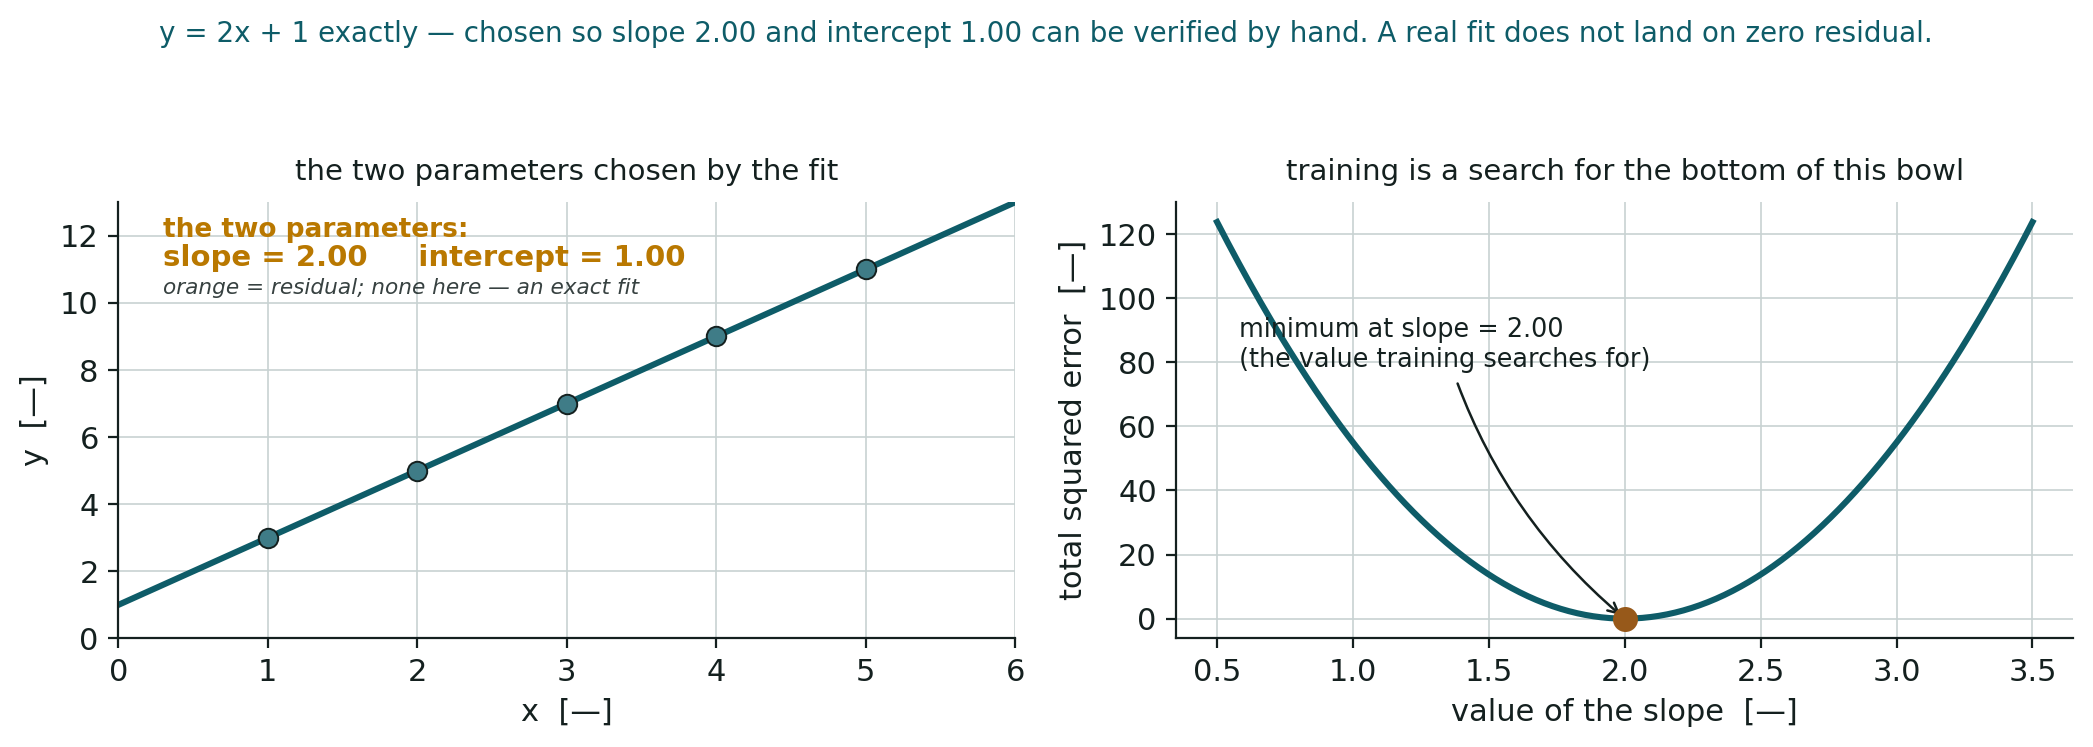
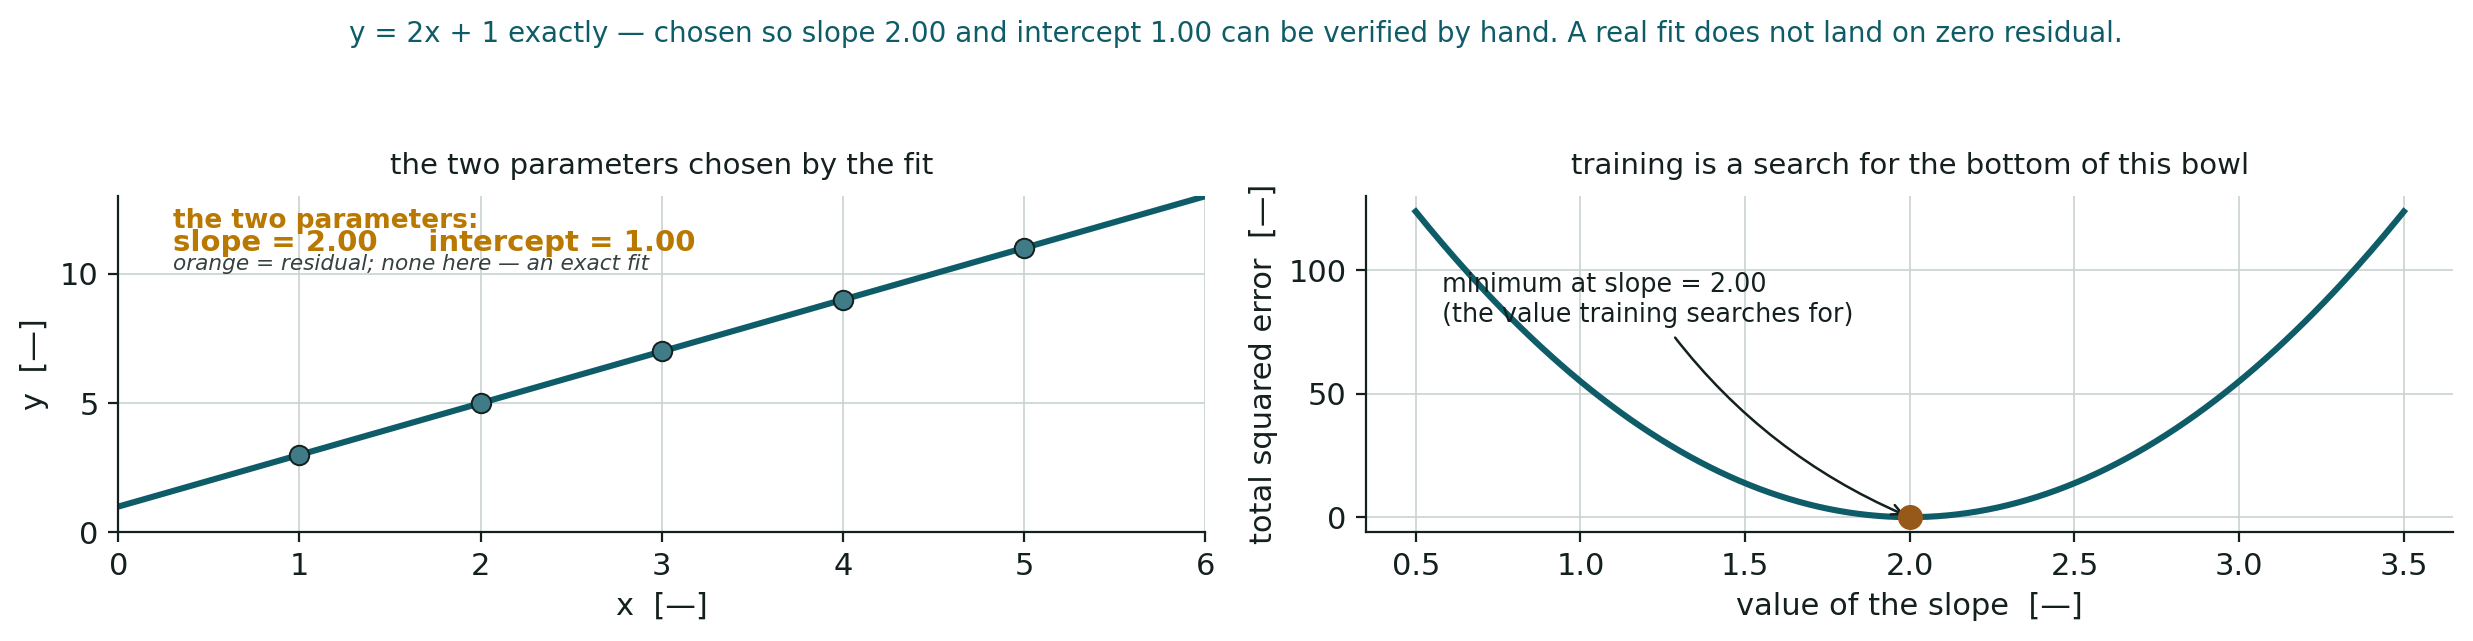
Re-proportion 23 figures to fill the slide's 144mm width
The slide template gives figures 144 mm of width and a fixed height in mm.
All 23 figures were height-limited: they hit the height cap before the
width cap, so they rendered at 61-92% of available width (avg ~75%),
wasting a quarter of the slide and rendering labels smaller than needed
on the projected screen.

Fix: reduce figsize height (and, where that would crowd fixed-data-coordinate
annotations, widen figsize instead) so the achieved w:h ratio after
bbox_inches="tight" lands within +/-0.15 of a per-figure target computed
from the slide's actual box. No content, wording, colour, or number changed;
all existing assertions (softmax table reproduction, best-of-eleven mean
arithmetic) still pass.

Two figures needed width added rather than height reduced, because a
straight height cut crowded fixed-position annotation text:
- 01-fitting: left-panel annotation text collided with itself once the
  y-axis was compressed (10.6x3.5 -> 12.5x3.0 instead of 10.6x2.59)
- 01-token-cost and 02-best-of-eleven: bottom caption collided with the
  x-axis label / rotated tick labels (10.6x3.75 -> 12.2x3.42;
  13.4x4.4 -> 15.6x3.70)

All 23 achieved ratios verified within tolerance and visually inspected;
none regressed relative to the unmodified figure. 01-kv-growth,
05-position-schematic, and 01-chat-artefact are untouched (not used at
these sizes), as is 01-softmax-T (not in scope).

diff --git a/assets/figures/gen-figures.py b/assets/figures/gen-figures.py
@@ -75,7 +75,7 @@ def fig_temperature():
     logits = np.log(p1)                            # exact inverse of softmax at T = 1
     temps = [0.2, 0.7, 1.0, 1.8]
 
-    fig, axes = plt.subplots(1, 4, figsize=(11.6, 3.55), sharey=True)
+    fig, axes = plt.subplots(1, 4, figsize=(11.6, 2.27), sharey=True)
     x = np.arange(len(labels))
     for ax, T in zip(axes, temps):
         p = softmax(logits, T)
@@ -200,7 +200,7 @@ def fig_scores():
     probs = recovered[:-1]
     shown_total = probs.sum()
 
-    fig, (a1, a2) = plt.subplots(1, 2, figsize=(11.0, 3.55))
+    fig, (a1, a2) = plt.subplots(1, 2, figsize=(11.0, 2.71))
     x = np.arange(len(labels))
     a1.bar(x, logits, color=LOGIT, edgecolor=INK, linewidth=.6)
     a1.set_title("1. logits — raw scores out of the network", fontsize=10.5, pad=8)
@@ -234,7 +234,7 @@ def fig_token_cost():
     counts = [1, 1, 2, 2, 3, 3, 4]                      # schematic, not measured
     letters = [len(t) for t in terms]
     labels = [f"{t}   ({n} letters)" for t, n in zip(terms, letters)]
-    fig, ax = plt.subplots(figsize=(10.6, 3.75))
+    fig, ax = plt.subplots(figsize=(12.2, 3.42))
     cols = [WARN if t in ("rebar", "international") else ACCENT[0] for t in terms]
     ax.barh(range(len(terms)), counts, color=cols, edgecolor=INK, linewidth=.6)
     ax.set_yticks(range(len(terms))); ax.set_yticklabels(labels, fontsize=10)
@@ -347,7 +347,7 @@ def fig_what_is_ai():
          "", ACCENT[0]),
     ]
     tops = [5.35, 4.20, 3.05, 1.90]
-    fig, ax = plt.subplots(figsize=(12.6, 4.55))
+    fig, ax = plt.subplots(figsize=(12.6, 3.74))
     ax.set_xlim(0, 10); ax.set_ylim(0, 5.9); _blank(ax)
     for i, (name, defn, examples, colour) in enumerate(bands):
         x = 0.30 + i * 0.38
@@ -383,7 +383,7 @@ def fig_model_artefact():
     """A model as a concrete object: a long list of numbers, and the program that
     does arithmetic with them. No file size is asserted - the count is left as a
     symbol, because a specific figure would be a claim about a specific model."""
-    fig, ax = plt.subplots(figsize=(11.4, 3.9))
+    fig, ax = plt.subplots(figsize=(11.4, 3.08))
     ax.set_xlim(0, 10); ax.set_ylim(0, 4.4); _blank(ax)
 
     ax.add_patch(FancyBboxPatch((0.3, 1.15), 4.5, 2.55, boxstyle="round,pad=0.08",
@@ -418,7 +418,7 @@ def fig_model_artefact():
 def fig_train_vs_run():
     """Timeline: the numbers change during training, then stop changing. Every
     session the audience will ever run sits to the right of the line."""
-    fig, ax = plt.subplots(figsize=(11.2, 3.5))
+    fig, ax = plt.subplots(figsize=(11.2, 2.64))
     ax.set_xlim(0, 10); ax.set_ylim(0, 4.0); _blank(ax)
     ax.annotate("", xy=(9.9, 0.55), xytext=(0.2, 0.55),
                 arrowprops=dict(arrowstyle="-|>", color=INK, lw=1.6))
@@ -465,7 +465,7 @@ def fig_fitting():
     m, c = np.polyfit(x, y, 1)                        # least-squares fit, exact
     resid = y - (m * x + c)                           # exactly zero here, to float precision
 
-    fig, (a1, a2) = plt.subplots(1, 2, figsize=(10.6, 3.5))
+    fig, (a1, a2) = plt.subplots(1, 2, figsize=(12.5, 3.0))
     a1.plot(x, y, "o", color=ACCENT[1], ms=7, mec=INK, mew=.7, zorder=5)
     xs = np.linspace(0, 6, 100)
     a1.plot(xs, m * xs + c, color=ACCENT[0], lw=2.2)
@@ -513,7 +513,7 @@ def fig_tokens():
               " the", " stir", "rups", " were"]
     ids = [791, 24001, 8710, 304, 1364, 277, 1606,
            279, 2941, 32516, 1051]                                # illustrative
-    fig, ax = plt.subplots(figsize=(11.9, 3.95))
+    fig, ax = plt.subplots(figsize=(11.9, 3.07))
     ax.set_xlim(0, 12.6); ax.set_ylim(0, 3.0); _blank(ax)
     ax.text(1.55, 2.28, "what you typed", fontsize=9.5, ha="right", va="center",
             color=INK, alpha=.78)
@@ -556,7 +556,7 @@ def fig_attention():
     words = ["The", "beam", "failed", "in", "shear", "because", "the", "stirrups", "were"]
     weights = [0.02, 0.24, 0.09, 0.01, 0.28, 0.03, 0.01, 0.30, 0.02]
 
-    fig, ax = plt.subplots(figsize=(12.0, 4.05))
+    fig, ax = plt.subplots(figsize=(12.0, 2.99))
     ax.set_xlim(0, 13.2); ax.set_ylim(0, 3.6); _blank(ax)
     xs, xpos = [], 0.25
     for w in words:
@@ -656,7 +656,7 @@ def fig_loop():
              [.58, .20, .13, .09], [.50, .24, .16, .10]]
     pick = 0                                  # the sampler happened to take the top one
 
-    fig, axes = plt.subplots(4, 1, figsize=(12.8, 4.55))
+    fig, axes = plt.subplots(4, 1, figsize=(12.8, 3.39))
     for r, ax in enumerate(axes):
         ax.set_xlim(0, 10); ax.set_ylim(0, 1); _blank(ax)
         ax.text(0.05, 0.5, f"pass {r+1}", fontsize=9.5, va="center", color=INK, alpha=.7)
@@ -696,7 +696,7 @@ def fig_loop():
 def fig_persistence():
     """Three sessions over time. The window fills and vanishes each time; the
     parameter list below it never changes."""
-    fig, ax = plt.subplots(figsize=(11.2, 3.7))
+    fig, ax = plt.subplots(figsize=(11.2, 2.64))
     ax.set_xlim(0, 10); ax.set_ylim(0, 4.2); _blank(ax)
     for i, lab in enumerate(["session 1", "session 2", "session 3"]):
         x = 0.6 + i * 3.1
@@ -732,7 +732,7 @@ def fig_what_training_changed():
     start = rng.uniform(-1, 1, 6)
     end = start + rng.normal(0, 0.55, 6)
 
-    fig, ax = plt.subplots(figsize=(11.6, 4.05))
+    fig, ax = plt.subplots(figsize=(11.6, 2.58))
     ax.set_xlim(0, 11); ax.set_ylim(0, 4.2); _blank(ax)
 
     ax.add_patch(FancyBboxPatch((0.35, 1.35), 3.6, 2.45, boxstyle="round,pad=0.07",
@@ -788,7 +788,7 @@ def fig_corpus_density():
         (4.0, 7.3, "the band between", "believes it knows, gets it wrong", WARN),
         (7.3, 10.0, "genuinely obscure", "usually declines, or says so", "#9AA0A0"),
     ]
-    fig, ax = plt.subplots(figsize=(11.8, 3.85))
+    fig, ax = plt.subplots(figsize=(11.8, 2.86))
     ax.set_xlim(0, 10); ax.set_ylim(0, 4.3); _blank(ax)
     strip_y, strip_h = 1.55, 0.95
     for x0, x1, name, sub, colour in bands:
@@ -831,7 +831,7 @@ def fig_surprise():
     after_p = CAND_PROBS                     # [0.41, 0.27, 0.19, 0.02] — the fixed table
     x = np.arange(len(CANDIDATES))
 
-    fig, (a1, a2, a3) = plt.subplots(1, 3, figsize=(13.4, 3.85))
+    fig, (a1, a2, a3) = plt.subplots(1, 3, figsize=(13.4, 3.26))
 
     # Panel 1 — the training sentence, next word hidden
     a1.set_xlim(0, 10); a1.set_ylim(0, 4); _blank(a1)
@@ -930,7 +930,7 @@ def fig_house_style():
               "Fewer voids raise the strength of the",
               "hardened concrete."]
 
-    fig, ax = plt.subplots(figsize=(12.2, 4.5))
+    fig, ax = plt.subplots(figsize=(12.2, 2.76))
     ax.set_xlim(0, 12.2); ax.set_ylim(0, 4.6); _blank(ax)
     ax.text(6.1, 4.40, "“" + CH2_QUESTION + "”", ha="center", va="center",
             fontsize=10.0, color=INK, style="italic")
@@ -990,7 +990,7 @@ def fig_rubric():
               "formatting": 3, "verbosity": 2, "tone": 4}
     tension = {"truthfulness", "verbosity"}
 
-    fig, ax = plt.subplots(figsize=(12.0, 4.6))
+    fig, ax = plt.subplots(figsize=(12.0, 3.06))
     ax.set_xlim(0, 12.0); ax.set_ylim(0, 4.7); _blank(ax)
     ax.text(6.0, 4.55, "rating one response to “" + CH2_QUESTION + "”",
             ha="center", va="center", fontsize=9.6, color=INK, style="italic")
@@ -1045,7 +1045,7 @@ def fig_scale_designs():
     only the mechanism (structural vs. instructional removal of the tie
     option) is drawn from the review documents' finding.
     """
-    fig, (a1, a2) = plt.subplots(1, 2, figsize=(13.8, 4.3))
+    fig, (a1, a2) = plt.subplots(1, 2, figsize=(13.8, 3.10))
 
     a1.set_xlim(0, 10); a1.set_ylim(0, 5.3); _blank(a1)
     a1.text(5, 4.90, "six-point scale — no midpoint exists", fontsize=10.3,
@@ -1121,7 +1121,7 @@ def fig_labour_models():
              "near-total discretion over the answer's form",
              "the professional designs their own question"]
 
-    fig, ax = plt.subplots(figsize=(12.4, 4.15))
+    fig, ax = plt.subplots(figsize=(12.4, 3.17))
     ax.set_xlim(0, 12.4); ax.set_ylim(0, 4.4); _blank(ax)
 
     ax.add_patch(FancyBboxPatch((0.3, 0.5), 5.6, 3.35, boxstyle="round,pad=0.08",
@@ -1165,7 +1165,7 @@ def fig_disagreement():
           "formatting": 2, "verbosity": 2, "tone": 5}
     differ = {d for d in RUBRIC_DIMS if r1[d] != r2[d]}
 
-    fig, (a1, a2, a3) = plt.subplots(1, 3, figsize=(13.6, 4.15))
+    fig, (a1, a2, a3) = plt.subplots(1, 3, figsize=(13.6, 3.22))
 
     a1.set_xlim(0, 10); a1.set_ylim(0, 6.4); _blank(a1)
     for i, d in enumerate(RUBRIC_DIMS):
@@ -1243,7 +1243,7 @@ def fig_instrument_divergence():
     }
     highlight = {"instruction\nfollowing", "truthfulness /\naccuracy"}
 
-    fig, ax = plt.subplots(figsize=(12.8, 4.3))
+    fig, ax = plt.subplots(figsize=(12.8, 3.28))
     ax.set_xlim(-1.9, len(cats)); ax.set_ylim(-1.6, len(docs) + 0.6); _blank(ax)
     for r, doc in enumerate(docs):
         y = len(docs) - 1 - r
@@ -1277,7 +1277,7 @@ def fig_instrument_rebuild():
     three listed changes are the general shape of the review documents'
     finding, not quoted entries. Two data batches, a fortnight apart, sit on
     either side of the window."""
-    fig, ax = plt.subplots(figsize=(12.4, 4.15))
+    fig, ax = plt.subplots(figsize=(12.4, 3.17))
     ax.set_xlim(-0.5, 22); ax.set_ylim(-1.0, 5.1); _blank(ax)
     axis_y = 1.6
     ax.annotate("", xy=(21.5, axis_y), xytext=(0, axis_y),
@@ -1336,7 +1336,7 @@ def fig_evidence_vs_force():
     force_rank = {l: i + 1 for i, l in enumerate(force_order)}
     highlight = "instrument rebuilt mid-run"
 
-    fig, ax = plt.subplots(figsize=(13.6, 4.6))
+    fig, ax = plt.subplots(figsize=(13.6, 3.03))
     ax.set_xlim(-0.3, 1.3); ax.set_ylim(0, 9.2); _blank(ax)
     ax.text(0, 8.85, "ranked by evidence", fontsize=10.5, ha="center", weight="bold", color=INK)
     ax.text(1, 8.85, "ranked by force", fontsize=10.5, ha="center", weight="bold", color=INK)
@@ -1398,7 +1398,7 @@ def fig_best_of_eleven():
     vals = np.insert(other, max_idx, MAX_PCT)
     assert abs(vals.mean() - MEAN_PCT) < 1e-9, "mean of the 11 plotted bars must equal 4.42 exactly"
 
-    fig, ax = plt.subplots(figsize=(13.4, 4.4))
+    fig, ax = plt.subplots(figsize=(15.6, 3.70))
     x = np.arange(11)
     cols = [WARN if i == max_idx else ACCENT[1] for i in range(11)]
     hatch = [None if i == max_idx else "///" for i in range(11)]
